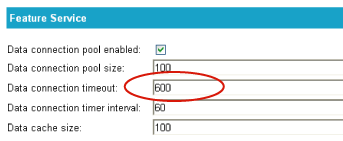
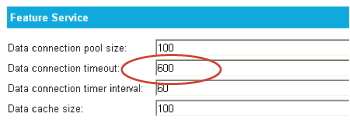
MG261 Final updates from Tech Pubs
git-svn-id: http://svn.osgeo.org/mapguide/trunk@596 a442ad82-b40c-0410-ae44-e6d7bd6e4a36

Changed region(s): [[0.0, 0.2791, 1.0, 0.9612], [0.0, 0.031, 1.0, 0.2481], [0.0, 0.3101, 0.4082, 0.4341]]

diff --git a/MgDev/Web/src/mapadmin/HelpDocs/about_packages.htm b/MgDev/Web/src/mapadmin/HelpDocs/about_packages.htm
@@ -146,8 +146,10 @@
           format and saved for easy transport. You can use packages to load data 
           onto the site when a standard load procedure fails on very large files 
           due to a timeout. The advantage of creating spatial data packages is 
-          that you can transfer large files to the server by CD-ROM/DVD rather 
-          than across a network. 
+          that you can transfer large files to the server, using the Load Packages 
+          page to extract the data directly into the resource repository. This 
+          is often more efficient than loading large data files over HTTP, which 
+          can take much longer or lead to timeout problems. 
         <p>You can save a package file anywhere. However, all data packages must 
           be copied to a specific packages folder before they can be loaded into 
           the repository. You specify the location of the package folder with 

diff --git a/MgDev/Web/src/mapadmin/HelpDocs/configuring_services.htm b/MgDev/Web/src/mapadmin/HelpDocs/configuring_services.htm
@@ -239,10 +239,6 @@
             <td width="83%">&nbsp; </td>
           </tr>
           <tr> 
-            <td width="17%">Data connection pool enabled</td>
-            <td width="83%">0 = pool disabled, 1 = pool enabled</td>
-          </tr>
-          <tr> 
             <td width="17%">Data connection pool size</td>
             <td width="83%"> Number of connections to cache (value &lt;= 1024)</td>
           </tr>
@@ -260,7 +256,6 @@
             <td width="17%">Data cache size</td>
             <td width="83%">Max number of features to fetch (value &lt;= 2147483647)</td>
           </tr>
-
         </table>
         <table width="100%" border="0">
           <tr> 

diff --git a/MgDev/Web/src/mapadmin/HelpDocs/configuring_servers.htm b/MgDev/Web/src/mapadmin/HelpDocs/configuring_servers.htm
@@ -270,7 +270,10 @@
           </tr>
           <tr> 
             <td width="17%">Port</td>
-            <td width="83%">Port to use for administration operations</td>
+            <td width="83%">Port to use for administration operations. If this 
+              port number is changed, the corresponding port number in the <i>webconfig.ini</i> 
+              file should also be changed (the <i>ini</i> file is installed with 
+              the Web Extensions).</td>
           </tr>
           <tr> 
             <td width="17%">Queue size</td>
